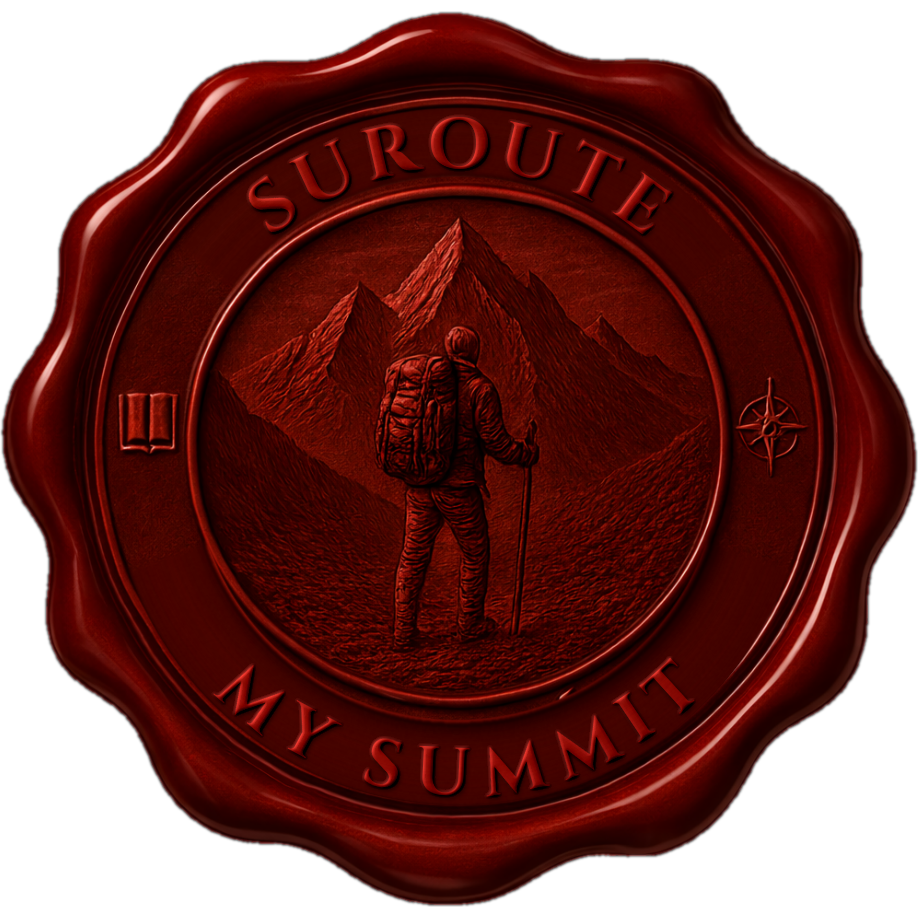
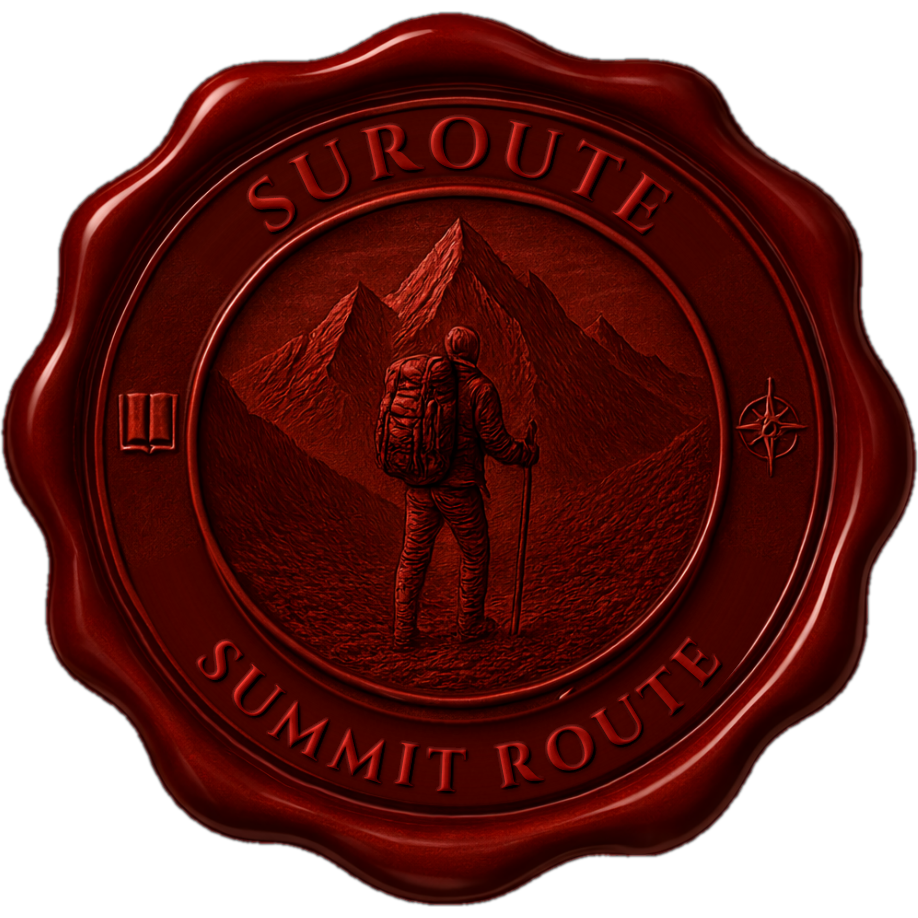
Lema «Summit Route», tarjeta para compartir minimalista y página de descargas (computador, Android, iPhone y web)
- Sello con SUROUTE y SUMMIT ROUTE; la tarjeta de WhatsApp solo con sello, nombre y lema.
- descargar.html: una tarjeta por equipo (recomienda la del equipo que la abre), instalar en el
  computador con el diálogo del navegador y QR para abrirla en el teléfono.
- Pantalla del QR: aviso «Descarga SuRoute para tu computador», como en WhatsApp Web; ingresar,
  crear cuenta y documentos legales se mantienen.

Claude-Session: https://claude.ai/code/session_01Y9kbKZoj27EDMyNuc8Kmar

Changed region(s): [[0.2135, 0.7015, 0.793, 0.8845]]

diff --git a/web/descargar.html b/web/descargar.html
@@ -1,0 +1,110 @@
+<!doctype html>
+<html lang="es">
+<head>
+<meta charset="utf-8">
+<meta name="viewport" content="width=device-width, initial-scale=1, viewport-fit=cover">
+<title>Descargar SuRoute · Summit Route</title>
+<meta name="description" content="Descarga SuRoute para tu computador (Windows y Mac), tu Android o tu iPhone, o úsala en la web. La misma cuenta en todos lados.">
+<meta property="og:type" content="website">
+<meta property="og:site_name" content="SuRoute">
+<meta property="og:title" content="Descargar SuRoute">
+<meta property="og:description" content="Computador, Android, iPhone y web: la misma app y la misma cuenta.">
+<meta property="og:url" content="https://suroute.com/descargar.html">
+<meta property="og:image" content="https://suroute.com/iconos/compartir.png">
+<meta name="twitter:card" content="summary_large_image">
+<link rel="icon" href="iconos/favicon.png">
+<link rel="manifest" href="manifest.webmanifest">
+<link rel="apple-touch-icon" href="iconos/apple-touch-icon.png">
+<meta name="theme-color" content="#0E1622">
+<link rel="stylesheet" href="descargar.css">
+</head>
+<body>
+<header class="barra">
+  <a class="marca" href="./"><img src="iconos/favicon.png" alt="" width="32" height="32">SuRoute</a>
+  <a class="barra-abrir" href="./">Abrir SuRoute Web</a>
+</header>
+
+<section class="hero">
+  <div class="hero-txt">
+    <p class="lema">Summit Route</p>
+    <h1>Descarga SuRoute</h1>
+    <p>Encuentra tu cumbre y súbela paso a paso. En el computador, en el teléfono o en el navegador: es la misma app y la misma cuenta.</p>
+  </div>
+  <img class="hero-sello" src="sello.png" alt="Sello de cera de SuRoute" width="168" height="168">
+</section>
+
+<main>
+  <!-- Recomendado para este equipo: lo pone descargar.js arriba -->
+  <article class="plataforma" id="pc" data-plataforma="pc">
+    <div class="ilus" aria-hidden="true"><svg viewBox="0 0 24 24"><path d="M21 2H3c-1.1 0-2 .9-2 2v12c0 1.1.9 2 2 2h7v2H8v2h8v-2h-2v-2h7c1.1 0 2-.9 2-2V4c0-1.1-.9-2-2-2zm0 14H3V4h18v12z"/></svg></div>
+    <div class="txt">
+      <span class="etiqueta" hidden>Recomendado para tu equipo</span>
+      <h2>SuRoute para tu computador</h2>
+      <p>Windows, Mac y Linux. Se instala desde el navegador en segundos, queda con su sello en el menú de inicio o en el Dock y se abre en su propia ventana.</p>
+      <p class="nota" id="pcNota">Usa Chrome o Edge. En Safari para Mac: <b>Archivo › Agregar al Dock</b>.</p>
+    </div>
+    <div class="accion">
+      <button class="btn lleno" id="instalarPc" type="button">Descargar <svg viewBox="0 0 24 24" aria-hidden="true"><path d="M19 9h-4V3H9v6H5l7 7 7-7zM5 18v2h14v-2H5z"/></svg></button>
+    </div>
+  </article>
+
+  <article class="plataforma" id="android" data-plataforma="android">
+    <div class="ilus" aria-hidden="true"><svg viewBox="0 0 24 24"><path d="M17.6 9.48l1.84-3.18c.16-.31.04-.69-.26-.85a.637.637 0 0 0-.83.22l-1.88 3.24a11.43 11.43 0 0 0-8.94 0L5.65 5.67a.643.643 0 0 0-.87-.2c-.28.18-.37.54-.22.83L6.4 9.48A10.78 10.78 0 0 0 1 18h22a10.78 10.78 0 0 0-5.4-8.52zM7 15.25a1.25 1.25 0 1 1 0-2.5 1.25 1.25 0 0 1 0 2.5zm10 0a1.25 1.25 0 1 1 0-2.5 1.25 1.25 0 0 1 0 2.5z"/></svg></div>
+    <div class="txt">
+      <span class="etiqueta" hidden>Recomendado para tu equipo</span>
+      <h2>SuRoute para Android</h2>
+      <p>La app completa: hábitos, metas, Ascenso financiero, audiolibros, recordatorios y widget. Funciona sin conexión y sin cuenta.</p>
+      <p class="nota">Abre el archivo descargado y permite instalar apps de esta fuente. Muy pronto también en Google Play.</p>
+    </div>
+    <div class="accion">
+      <a class="btn lleno" href="https://github.com/PassBri/suroute/releases/download/apk-reciente/SuRoute.apk">Descargar <svg viewBox="0 0 24 24" aria-hidden="true"><path d="M19 9h-4V3H9v6H5l7 7 7-7zM5 18v2h14v-2H5z"/></svg></a>
+    </div>
+  </article>
+
+  <article class="plataforma" id="iphone" data-plataforma="iphone">
+    <div class="ilus" aria-hidden="true"><svg viewBox="0 0 24 24"><path d="M15.5 1h-8A2.5 2.5 0 0 0 5 3.5v17A2.5 2.5 0 0 0 7.5 23h8a2.5 2.5 0 0 0 2.5-2.5v-17A2.5 2.5 0 0 0 15.5 1zm-4 21c-.83 0-1.5-.67-1.5-1.5s.67-1.5 1.5-1.5 1.5.67 1.5 1.5-.67 1.5-1.5 1.5zm4.5-4H7V4h9v14z"/></svg></div>
+    <div class="txt">
+      <span class="etiqueta" hidden>Recomendado para tu equipo</span>
+      <h2>SuRoute para iPhone y iPad</h2>
+      <p>Abre <b>suroute.com</b> en <b>Safari</b>, toca <b>Compartir</b> y elige <b>Agregar a pantalla de inicio</b>. Queda con su sello entre tus apps y se abre a pantalla completa.</p>
+      <p class="nota">Entra con el correo de tu cuenta: verás la misma ruta que en tus otros equipos.</p>
+    </div>
+    <div class="accion">
+      <a class="btn" href="./">Abrir en Safari</a>
+    </div>
+  </article>
+
+  <article class="plataforma" id="web" data-plataforma="web">
+    <div class="ilus" aria-hidden="true"><svg viewBox="0 0 24 24"><path d="M12 2C6.48 2 2 6.48 2 12s4.48 10 10 10 10-4.48 10-10S17.52 2 12 2zm6.93 6h-2.95a15.65 15.65 0 0 0-1.38-3.56A8.03 8.03 0 0 1 18.93 8zM12 4.04c.83 1.2 1.48 2.53 1.91 3.96h-3.82c.43-1.43 1.08-2.76 1.91-3.96zM4.26 14C4.1 13.36 4 12.69 4 12s.1-1.36.26-2h3.38c-.08.66-.14 1.32-.14 2s.06 1.34.14 2H4.26zm.82 2h2.95c.32 1.25.78 2.45 1.38 3.56A7.99 7.99 0 0 1 5.08 16zm2.95-8H5.08a7.99 7.99 0 0 1 4.33-3.56A15.65 15.65 0 0 0 8.03 8zM12 19.96c-.83-1.2-1.48-2.53-1.91-3.96h3.82c-.43 1.43-1.08 2.76-1.91 3.96zM14.34 14H9.66c-.09-.66-.16-1.32-.16-2s.07-1.35.16-2h4.68c.09.65.16 1.32.16 2s-.07 1.34-.16 2zm.25 5.56c.6-1.11 1.06-2.31 1.38-3.56h2.95a8.03 8.03 0 0 1-4.33 3.56zM16.36 14c.08-.66.14-1.32.14-2s-.06-1.34-.14-2h3.38c.16.64.26 1.31.26 2s-.1 1.36-.26 2h-3.38z"/></svg></div>
+    <div class="txt">
+      <span class="etiqueta" hidden>Recomendado para tu equipo</span>
+      <h2>SuRoute Web</h2>
+      <p>Sin instalar nada: abre <b>suroute.com</b> en cualquier navegador, vincula tu teléfono con un código QR o entra con tu correo.</p>
+    </div>
+    <div class="accion">
+      <a class="btn" href="./">Abrir</a>
+    </div>
+  </article>
+
+  <section class="qr-tel" id="qrTel" aria-label="Abrir en el teléfono">
+    <div>
+      <h2>¿Lo quieres en el teléfono?</h2>
+      <ol>
+        <li>Escanea este código con la cámara del teléfono.</li>
+        <li>Se abrirá esta misma página.</li>
+        <li>Elige Android o iPhone y sigue los pasos.</li>
+      </ol>
+    </div>
+    <div class="qr" id="qr" role="img" aria-label="Código QR para abrir suroute.com/descargar.html en el teléfono"></div>
+  </section>
+</main>
+
+<footer class="pie">
+  <img src="iconos/favicon.png" alt="" width="28" height="28">
+  <p><b>SuRoute · Summit Route</b> · Con el método Ruta a la Cima.</p>
+  <p class="suave"><a href="legal.html">Privacidad y términos</a> · <a href="https://github.com/PassBri/suroute">Código en GitHub</a></p>
+</footer>
+<script src="https://cdnjs.cloudflare.com/ajax/libs/qrcode-generator/1.4.4/qrcode.min.js"></script>
+<script src="js/descargar.js"></script>
+</body>
+</html>

diff --git a/web/descargar.css b/web/descargar.css
@@ -1,0 +1,84 @@
+/* Página de descargas de SuRoute: tarjetas grandes por equipo, como la de WhatsApp, con el mundo de la marca
+   (noche de montaña, lacre burdeos y papel). Modo claro y oscuro. */
+:root {
+  --fondo: #F4F1EC; --hoja: #FFFFFF; --tinta: #1D2427; --suave: #5A666B; --linea: #E2DDD5;
+  --burdeos: #6B2A1A; --sobre-burdeos: #FFFFFF; --oro: #86683A; --noche: #0E1622; --noche-2: #1C2638;
+  --font-titulo: "Roboto Serif", Georgia, "Times New Roman", serif;
+  --font-texto: system-ui, -apple-system, "Segoe UI", Roboto, sans-serif;
+  color-scheme: light;
+}
+@media (prefers-color-scheme: dark) { :root {
+  --fondo: #0A0E12; --hoja: #12181D; --tinta: #E8EDEF; --suave: #98A6AD; --linea: #243039;
+  --burdeos: #F0B3A1; --sobre-burdeos: #2B1209; --oro: #C9AE84; color-scheme: dark;
+} }
+* { box-sizing: border-box; }
+body { margin: 0; background: var(--fondo); color: var(--tinta); font: 16px/1.6 var(--font-texto); }
+a { color: var(--burdeos); }
+svg { fill: currentColor; }
+
+.barra { position: sticky; top: 0; z-index: 3; display: flex; align-items: center; justify-content: space-between; gap: 12px;
+  padding: 12px clamp(16px, 4vw, 40px); background: color-mix(in srgb, var(--fondo) 88%, transparent); backdrop-filter: saturate(1.2);
+  border-bottom: 1px solid var(--linea); }
+.marca { display: flex; align-items: center; gap: 10px; font: 600 20px/1 var(--font-titulo); color: var(--tinta); text-decoration: none; }
+.barra-abrir { font-weight: 600; text-decoration: none; padding: 10px 16px; border-radius: 999px; border: 1px solid var(--linea); color: var(--tinta); background: var(--hoja); }
+.barra-abrir:hover { border-color: var(--burdeos); }
+
+.hero { max-width: 1100px; margin: 24px auto 0; padding: clamp(28px, 5vw, 56px); border-radius: 28px; display: flex; align-items: center; gap: 32px;
+  color: #F7F2EA; background:
+    radial-gradient(1200px 300px at 70% 120%, #7A4A40 0%, transparent 60%),
+    linear-gradient(180deg, var(--noche) 0%, var(--noche-2) 70%, #3A2E3A 100%);
+  box-shadow: 0 12px 40px rgb(0 0 0 / .18); overflow: hidden; position: relative; }
+.hero::after { content: ""; position: absolute; left: 0; right: 0; bottom: 0; height: 38%; pointer-events: none;
+  background: linear-gradient(170deg, transparent 0 40%, rgb(20 20 30 / .55) 41%), linear-gradient(195deg, transparent 0 52%, rgb(12 12 20 / .6) 53%); }
+.hero-txt { position: relative; z-index: 1; flex: 1; }
+.lema { margin: 0 0 6px; letter-spacing: .32em; text-transform: uppercase; font-size: 13px; font-weight: 600; color: #D6BE8C; }
+.hero h1 { margin: 0 0 10px; font: 700 clamp(34px, 6vw, 56px)/1.05 var(--font-titulo); }
+.hero p { margin: 0; max-width: 52ch; font-size: clamp(16px, 2vw, 18px); color: #E9E1D6; }
+.hero-sello { position: relative; z-index: 1; width: clamp(110px, 18vw, 168px); height: auto; filter: drop-shadow(0 10px 24px rgb(0 0 0 / .45)); }
+
+main { max-width: 1100px; margin: 0 auto; padding: 22px clamp(12px, 3vw, 0px) 40px; display: grid; gap: 18px; }
+.plataforma { display: grid; grid-template-columns: 120px 1fr auto; align-items: center; gap: 24px; padding: 26px clamp(18px, 3vw, 36px);
+  background: var(--hoja); border: 1px solid var(--linea); border-radius: 28px; }
+.plataforma.recomendada { border: 2px solid var(--burdeos); box-shadow: 0 10px 30px rgb(60 30 20 / .10); }
+.ilus { width: 120px; height: 96px; border-radius: 20px; display: grid; place-items: center; background: color-mix(in srgb, var(--burdeos) 9%, var(--hoja)); color: var(--burdeos); }
+.ilus svg { width: 54px; height: 54px; }
+.txt h2 { margin: 0 0 6px; font: 600 clamp(20px, 2.4vw, 24px)/1.25 var(--font-titulo); }
+.txt p { margin: 0; color: var(--suave); }
+.txt p + p { margin-top: 6px; }
+.nota { font-size: 14px; }
+.nota.resaltada { color: var(--tinta); background: color-mix(in srgb, var(--oro) 14%, transparent); border-radius: 10px; padding: 8px 12px; }
+.etiqueta { display: inline-block; margin-bottom: 8px; font-size: 12px; font-weight: 700; letter-spacing: .06em; text-transform: uppercase; color: var(--burdeos); }
+
+.btn { display: inline-flex; align-items: center; justify-content: center; gap: 10px; min-height: 52px; padding: 0 26px; border-radius: 999px;
+  font: 600 17px/1 var(--font-texto); text-decoration: none; cursor: pointer; white-space: nowrap;
+  border: 1.5px solid var(--burdeos); background: transparent; color: var(--burdeos); transition: transform .2s cubic-bezier(.2,0,0,1); }
+.btn.lleno { background: var(--burdeos); color: var(--sobre-burdeos); }
+.btn:hover:not(:disabled) { transform: translateY(-1px); }
+.btn:disabled { opacity: .6; cursor: default; }
+.btn svg { width: 20px; height: 20px; }
+.btn:focus-visible, .barra-abrir:focus-visible { outline: 3px solid color-mix(in srgb, var(--burdeos) 45%, transparent); outline-offset: 3px; }
+
+.qr-tel { display: grid; grid-template-columns: 1fr auto; align-items: center; gap: 28px; padding: 30px clamp(18px, 3vw, 36px);
+  background: var(--hoja); border: 1px solid var(--linea); border-radius: 28px; }
+.qr-tel h2 { margin: 0 0 10px; font: 600 24px/1.25 var(--font-titulo); }
+.qr-tel ol { margin: 0; padding-left: 22px; color: var(--suave); }
+.qr-tel li { margin: 6px 0; }
+.qr { position: relative; width: 188px; height: 188px; padding: 10px; border-radius: 16px; background: #fff; border: 1px solid var(--linea); }
+.qr img:first-child { width: 100%; height: 100%; image-rendering: pixelated; display: block; }
+.qr-sello { position: absolute; left: 50%; top: 50%; width: 40px; height: 40px; transform: translate(-50%, -50%); border-radius: 50%; background: #fff; padding: 3px; }
+
+.pie { max-width: 1100px; margin: 0 auto; padding: 8px 16px 48px; text-align: center; color: var(--suave); font-size: 14px; }
+.pie p { margin: 4px 0; }
+.pie b { color: var(--tinta); }
+
+@media (max-width: 760px) {
+  .hero { margin: 12px 12px 0; flex-direction: column-reverse; text-align: center; gap: 14px; }
+  .hero p { margin-inline: auto; }
+  .plataforma { grid-template-columns: 1fr; text-align: left; gap: 14px; border-radius: 22px; }
+  .ilus { width: 72px; height: 64px; border-radius: 16px; }
+  .ilus svg { width: 36px; height: 36px; }
+  .accion .btn { width: 100%; }
+  .qr-tel { grid-template-columns: 1fr; }
+}
+@media (prefers-reduced-motion: reduce) { .btn { transition: none; } }
+[hidden] { display: none !important; }

diff --git a/web/js/descargar.js b/web/js/descargar.js
@@ -1,0 +1,48 @@
+/* Página de descargas: recomienda la versión del equipo que la abre, instala la app en el computador
+ * (con el diálogo del navegador cuando existe) y muestra un QR para abrirla en el teléfono. */
+"use strict";
+(() => {
+  const ua = navigator.userAgent;
+  const ios = /iPhone|iPad|iPod/.test(ua) || (navigator.platform === "MacIntel" && navigator.maxTouchPoints > 1);
+  const android = /Android/.test(ua);
+  const macSafari = navigator.platform === "MacIntel" && navigator.maxTouchPoints <= 1 && /Safari\//.test(ua) && !/Chrome|Chromium|Edg|OPR|Firefox/.test(ua);
+  const instalada = matchMedia("(display-mode: standalone)").matches || navigator.standalone === true;
+  const movil = ios || android;
+
+  // La tarjeta del equipo que abre la página va primero y se marca como recomendada
+  const propia = ios ? "iphone" : android ? "android" : "pc";
+  const tarjeta = document.getElementById(propia);
+  tarjeta.classList.add("recomendada");
+  tarjeta.querySelector(".etiqueta").hidden = false;
+  tarjeta.parentElement.prepend(tarjeta);
+  if (movil) document.getElementById("qrTel").hidden = true;
+
+  // Instalar en el computador
+  let aviso = null;
+  const boton = document.getElementById("instalarPc"), nota = document.getElementById("pcNota");
+  addEventListener("beforeinstallprompt", e => { e.preventDefault(); aviso = e; });
+  addEventListener("appinstalled", () => { boton.textContent = "Instalada"; boton.disabled = true; nota.textContent = "SuRoute quedó instalada. Búscala en el menú de inicio o en el Dock."; });
+  if ("serviceWorker" in navigator && location.protocol === "https:") navigator.serviceWorker.register("sw.js").catch(() => {});
+  if (instalada) { boton.textContent = "Ya está instalada"; boton.disabled = true; }
+  boton.addEventListener("click", async () => {
+    if (aviso) { aviso.prompt(); try { await aviso.userChoice; } catch {} aviso = null; return; }
+    // Sin el diálogo del navegador: se explican los pasos según el navegador
+    nota.innerHTML = macSafari
+      ? "En la barra de menús de Safari abre <b>Archivo</b> y elige <b>Agregar al Dock</b> (macOS Sonoma o posterior)."
+      : /Firefox/.test(ua)
+        ? "Firefox no instala apps web. Abre <b>suroute.com</b> en <b>Chrome</b> o <b>Edge</b> y toca el ícono de instalar en la barra de direcciones."
+        : movil
+          ? "Esta opción es para el computador. En tu teléfono usa la tarjeta de Android o de iPhone."
+          : "Abre <b>suroute.com</b> en <b>Chrome</b> o <b>Edge</b> y toca el ícono de instalar en la barra de direcciones (o el menú › <b>Instalar SuRoute</b>).";
+    nota.classList.add("resaltada");
+  });
+
+  // QR para abrir esta página en el teléfono
+  try {
+    const q = qrcode(0, "H"); q.addData("https://suroute.com/descargar.html"); q.make();
+    const img = new Image(); img.alt = ""; img.src = q.createDataURL(7, 0);
+    document.getElementById("qr").append(img);
+    const sello = new Image(); sello.src = "iconos/favicon.png"; sello.alt = ""; sello.className = "qr-sello";
+    document.getElementById("qr").append(sello);
+  } catch { document.getElementById("qrTel").hidden = true; }
+})();

diff --git a/web/js/09-arranque.js b/web/js/09-arranque.js
@@ -15,6 +15,9 @@ async function mostrarVincular() {
   clearInterval(sondeo); clearInterval(renovar);
   const real = !!Store.nube;
   $("pantallaVincular").innerHTML = `<div class="marca"><img src="${LOGO}" alt="">SuRoute Web</div>
+    ${window.INSTALAR?.instalada?.() ? "" : `<div class="v-descarga"><div class="v-descarga-ilus" aria-hidden="true">${ic("pc")}</div>
+      <div><h2>Descarga SuRoute para tu computador</h2><p>Instálala y ábrela en su propia ventana, con su sello en el menú de inicio o en el Dock. También para Android y iPhone.</p></div>
+      <a class="btn lleno v-descarga-btn" id="vDescargar" href="descargar.html">Descargar ${ic("descargar")}</a></div>`}
     <div class="tarjeta-v"><div><h1>Usa SuRoute en tu computador</h1>
       <ol class="pasos"><li>Abre <b>SuRoute</b> en tu teléfono.</li><li>Ve a <b>Perfil</b> y toca el ícono del computador (<b>SuRoute Web</b>).</li><li>Toca <b>Escanear código</b> y apunta tu teléfono a este código.</li></ol>
       <p class="suave" style="margin-top:22px;max-width:46ch">Es la misma app, con tu misma cuenta: lo que hagas aquí aparece en tu teléfono, y lo que hagas en el teléfono aparece aquí.</p></div>
@@ -29,6 +32,8 @@ async function mostrarVincular() {
     ${enlacesLegales()}</div></div>`;
   mostrar("vincular");
   $("cartaReleer").onclick = () => mostrarCarta(() => mostrarVincular());
+  // Con el diálogo del navegador disponible, «Descargar» instala aquí mismo; si no, lleva a la página de descargas
+  $("vDescargar")?.addEventListener("click", e => { if (window.INSTALAR?.aviso) { e.preventDefault(); instalarApp(); } });
   if ($("vCorreo")) { $("vCorreo").onclick = () => mostrarCorreo("entrar"); $("vCrear").onclick = () => mostrarCorreo("crear"); }
   if (!real) { pintarQR("https://github.com/PassBri/suroute"); return; }
   const nuevo = async () => {
@@ -173,7 +178,7 @@ function mostrarCarta(alSeguir) {
     </div>
     <div class="carta-sellada" id="cartaSellada"><button class="btn lleno" id="cartaRomper">${ic("candado")} Romper el sello</button></div>
     <article class="carta" id="carta" aria-label="Carta de bienvenida a SuRoute" hidden>
-      <header class="carta-membrete"><img src="${LOGO}" alt=""><span>SuRoute · My Summit</span></header>
+      <header class="carta-membrete"><img src="${LOGO}" alt=""><span>SuRoute · Summit Route</span></header>
       <p class="carta-lugar">Floridablanca, ${fecha}</p>
       <h2>${CARTA.saludo}</h2>${CARTA.parrafos.map(t => `<p>${t}</p>`).join("")}
       <p class="carta-cierre">${CARTA.cierre}</p>

diff --git a/web/estilos.css b/web/estilos.css
@@ -226,6 +226,16 @@ svg.i { width: 24px; height: 24px; fill: currentColor; flex: none; }
 .vincular { position: relative; max-width: 1000px; margin: 0 auto; padding-block: 28px; padding-inline: 19px; height: 100%; overflow-y: auto; }
 .marca { display: flex; align-items: center; gap: 10px; color: #fff; font: 500 15px var(--font-texto); letter-spacing: .1em; text-transform: uppercase; margin-bottom: 28px; }
 .marca img { width: 38px; height: 38px; }
+/* Aviso de descarga sobre la tarjeta del QR, como el de WhatsApp Web */
+.v-descarga { display: grid; grid-template-columns: auto 1fr auto; align-items: center; gap: 24px; margin-bottom: 16px; padding: 22px 32px;
+  background: var(--hoja); border-radius: 4px; box-shadow: 0 1px 2px rgb(var(--sombra) / .12), 0 10px 40px rgb(var(--sombra) / .16); }
+.v-descarga-ilus { width: 84px; height: 64px; border-radius: 14px; display: grid; place-items: center; background: var(--burdeos-suave); color: var(--burdeos); }
+.v-descarga-ilus svg { width: 38px; height: 38px; }
+.v-descarga h2 { margin: 0 0 4px; font: 500 20px/1.3 var(--font-titulo); color: var(--tinta); }
+.v-descarga p { margin: 0; color: var(--tinta-suave); font-size: 15px; max-width: 56ch; }
+.v-descarga-btn { display: inline-flex; align-items: center; gap: 8px; min-height: 48px; padding: 0 24px; border-radius: 999px; text-decoration: none; white-space: nowrap; }
+.v-descarga-btn svg { width: 18px; height: 18px; }
+@media (max-width: 760px) { .v-descarga { grid-template-columns: 1fr; padding: 20px; gap: 12px; } .v-descarga-ilus { display: none; } .v-descarga-btn { justify-content: center; } }
 .tarjeta-v { background: var(--hoja); border-radius: 4px; padding: 48px 56px; display: grid; grid-template-columns: 1fr auto; gap: 48px; align-items: start;
   box-shadow: 0 1px 2px rgb(var(--sombra) / .12), 0 10px 40px rgb(var(--sombra) / .16); }
 .tarjeta-v h1 { margin: 0 0 24px; font: 500 30px/1.25 var(--font-titulo); color: var(--tinta); text-wrap: balance; }

diff --git a/web/index.html b/web/index.html
@@ -3,20 +3,20 @@
 <head>
 <meta charset="utf-8">
 <meta name="viewport" content="width=device-width, initial-scale=1, viewport-fit=cover">
-<title>SuRoute · My Summit</title>
+<title>SuRoute · Summit Route</title>
 <meta name="application-name" content="SuRoute">
 <meta name="apple-mobile-web-app-title" content="SuRoute">
 <meta name="description" content="Encuentra tu cumbre y súbela paso a paso: metas, hábitos, finanzas y una comunidad que sube contigo. En el teléfono y en el computador.">
 <!-- Vista previa al compartir el enlace (WhatsApp, redes, correo) -->
 <meta property="og:type" content="website">
 <meta property="og:site_name" content="SuRoute">
-<meta property="og:title" content="SuRoute · My Summit">
+<meta property="og:title" content="SuRoute">
 <meta property="og:description" content="Encuentra tu cumbre y súbela paso a paso: metas, hábitos, finanzas y una comunidad que sube contigo. En el teléfono y en el computador.">
 <meta property="og:url" content="https://suroute.com/">
 <meta property="og:image" content="https://suroute.com/iconos/compartir.png">
 <meta property="og:image:width" content="1200">
 <meta property="og:image:height" content="630">
-<meta property="og:image:alt" content="Sello de cera de SuRoute con el lema My Summit sobre una cordillera al amanecer">
+<meta property="og:image:alt" content="Sello de cera de SuRoute con el lema Summit Route sobre una cordillera de noche">
 <meta property="og:locale" content="es_CO">
 <meta name="twitter:card" content="summary_large_image">
 <link rel="icon" href="iconos/favicon.png">

diff --git a/web/js/01-base.js b/web/js/01-base.js
@@ -77,6 +77,8 @@ const P = {
   pdf: "M20 2H8c-1.1 0-2 .9-2 2v12c0 1.1.9 2 2 2h12c1.1 0 2-.9 2-2V4c0-1.1-.9-2-2-2zm-8.5 7.5c0 .83-.67 1.5-1.5 1.5H9v2H7.5V7H10c.83 0 1.5.67 1.5 1.5v1zm5 2c0 .83-.67 1.5-1.5 1.5h-2.5V7H15c.83 0 1.5.67 1.5 1.5v3zm4-3H19v1h1.5V11H19v2h-1.5V7h3v1.5zM9 9.5h1v-1H9v1zM4 6H2v14c0 1.1.9 2 2 2h14v-2H4V6zm10 5.5h1v-3h-1v3z",
   deuda: "M20 4H4c-1.11 0-1.99.89-1.99 2L2 18c0 1.11.89 2 2 2h16c1.11 0 2-.89 2-2V6c0-1.11-.89-2-2-2zm0 14H4v-6h16v6zm0-10H4V6h16v2z",
   repetir: "M7 7h10v3l4-4-4-4v3H5v6h2V7zm10 10H7v-3l-4 4 4 4v-3h12v-6h-2v4z",
+  pc: "M21 2H3c-1.1 0-2 .9-2 2v12c0 1.1.9 2 2 2h7v2H8v2h8v-2h-2v-2h7c1.1 0 2-.9 2-2V4c0-1.1-.9-2-2-2zm0 14H3V4h18v12z",
+  descargar: "M19 9h-4V3H9v6H5l7 7 7-7zM5 18v2h14v-2H5z",
   puntos: "M6 4a2 2 0 1 1 0 4a2 2 0 1 1 0-4zM12 4a2 2 0 1 1 0 4a2 2 0 1 1 0-4zM18 4a2 2 0 1 1 0 4a2 2 0 1 1 0-4zM6 10a2 2 0 1 1 0 4a2 2 0 1 1 0-4zM12 10a2 2 0 1 1 0 4a2 2 0 1 1 0-4zM18 10a2 2 0 1 1 0 4a2 2 0 1 1 0-4zM6 16a2 2 0 1 1 0 4a2 2 0 1 1 0-4zM12 16a2 2 0 1 1 0 4a2 2 0 1 1 0-4zM18 16a2 2 0 1 1 0 4a2 2 0 1 1 0-4z",
   grafica: "M9 4H7v2H5v12h2v2h2v-2h2V6H9V4zm0 12H7V8h2v8zm10-8h-2V4h-2v4h-2v7h2v5h2v-5h2V8zm-2 5h-2v-3h2v3z",
   salud: "M15.11 12.45 14 10.24l-3.11 6.21c-.16.34-.51.55-.89.55s-.73-.21-.89-.55L7.38 13H2v5c0 1.1.9 2 2 2h16c1.1 0 2-.9 2-2v-5h-6c-.38 0-.73-.21-.89-.55zM20 4H4c-1.1 0-2 .9-2 2v5h6c.38 0 .73.21.89.55L10 13.76l3.11-6.21c.34-.68 1.45-.68 1.79 0L16.62 11H22V6c0-1.1-.9-2-2-2z",

diff --git a/README.md b/README.md
@@ -3,7 +3,7 @@
 </p>
 
 <h1 align="center">SuRoute</h1>
-<p align="center"><i>My Summit</i></p>
+<p align="center"><i>Summit Route</i></p>
 
 <p align="center">
   <b>Tu vida hasta los 120 años, vista año por año y día por día.</b><br>
@@ -591,7 +591,7 @@ el Decreto 1074 de 2015) y los requisitos de Google Play. Los documentos están 
 - **Papel y pliegues.** La app simula una hoja de papel plegada: grano suave, dobleces, hojas con la esquina doblada
   y sombras en el burdeos del sello, nunca grises. Sigue Material Design 3 (`ui/theme/Papel.kt`).
 - **Botones flotantes.** Los años, meses, semanas y días son botones que flotan y se hunden al tocarlos.
-- **Logo.** El **sello de cera de SuRoute** (con «SuRoute» y «My Summit»), original del autor. Aparece en el ícono, el arranque, la ventana
+- **Logo.** El **sello de cera de SuRoute** (con «SuRoute» y «Summit Route»), original del autor. Aparece en el ícono, el arranque, la ventana
   de inicio, la barra superior y la web.
 - **Archivos.** Los archivos en alta resolución y las vistas previas están en [`diseno/`](diseno).
 
